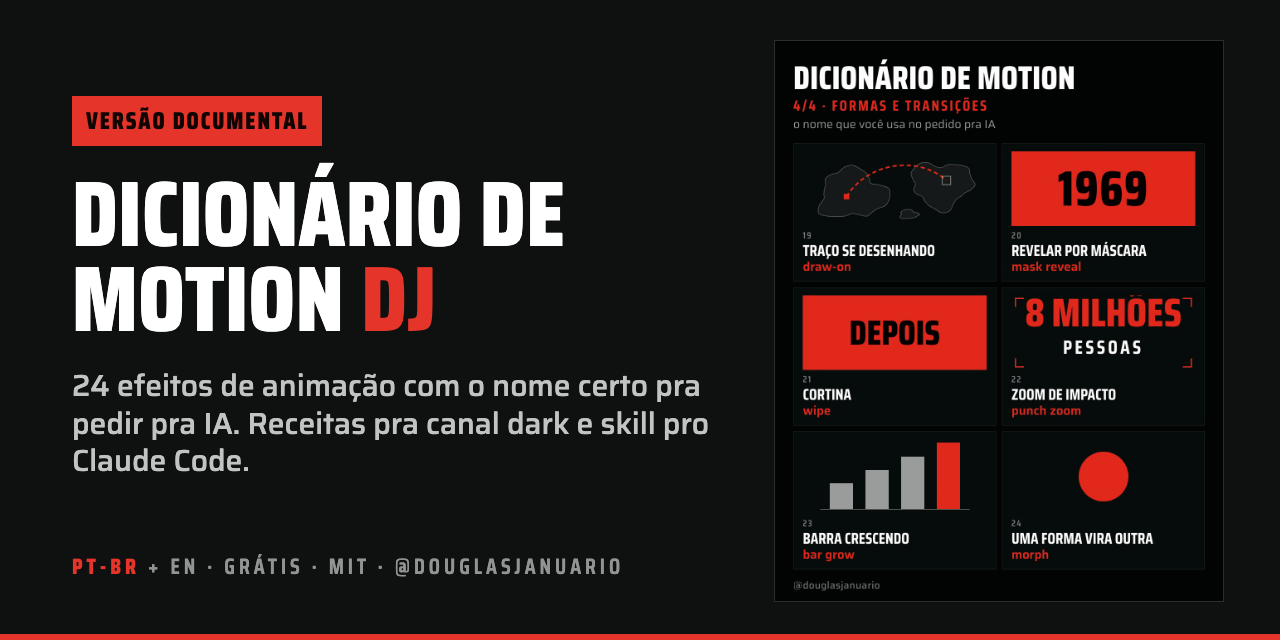
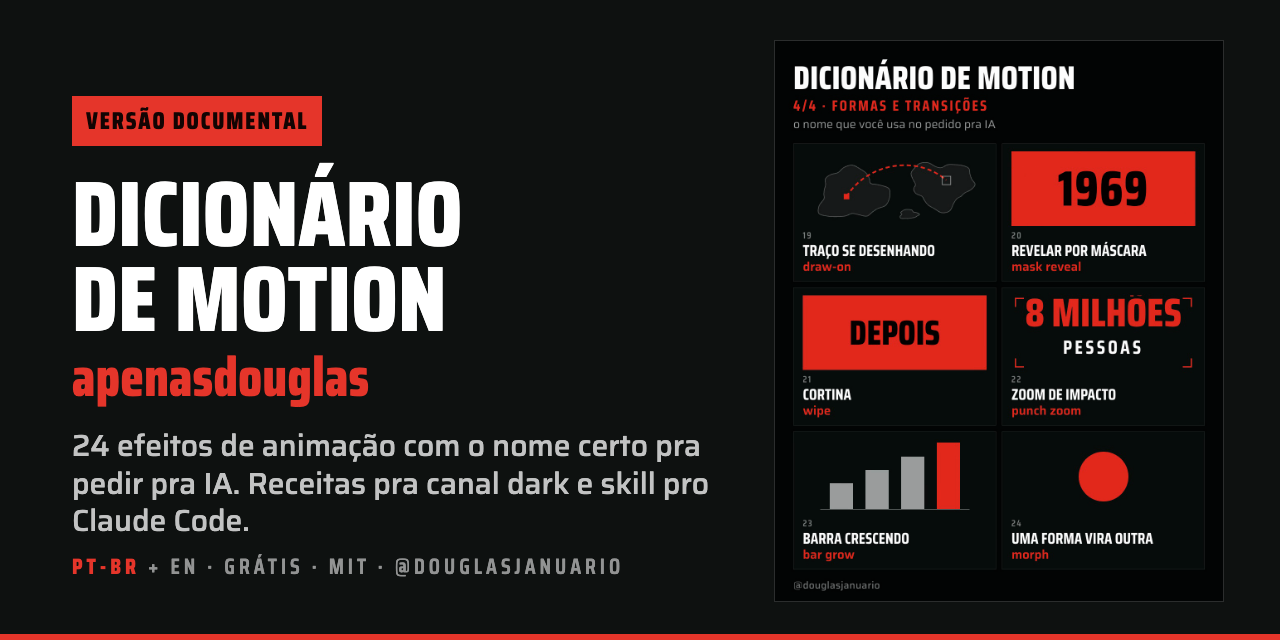
chore: nome do dicionário passa a ser apenasdouglas

Changed region(s): [[0.0312, 0.5625, 0.5625, 0.8438], [0.0625, 0.4062, 0.3438, 0.5312], [0.375, 0.2812, 0.4375, 0.4062]]

diff --git a/versoes/documental/dicionario-de-motion-documental/SKILL.md b/versoes/documental/dicionario-de-motion-documental/SKILL.md
@@ -3,7 +3,7 @@ name: dicionario-de-motion-documental
 description: Traduz pedidos de animação em português ("faz o número quicar", "entra um depois do outro", "dá um tranco no zoom") para o efeito de motion graphics certo, com o termo técnico, a duração e a aceleração. Use sempre que o usuário pedir animação, motion, transição ou efeito em vídeo, HTML, CSS, GSAP, Remotion, HyperFrames ou After Effects, principalmente quando o pedido for vago ("faz uma animação bonita") ou o vídeo for de canal dark (faceless) de curiosidades, história ou documentário. Also triggers on English requests for motion graphics, easing and animation effects in documentary or faceless YouTube videos.
 ---
 
-# Dicionário de Motion DJ · Versão Documental
+# Dicionário de Motion apenasdouglas · Versão Documental
 
 Quem pede animação em português raramente usa o nome técnico do efeito. Esta skill faz a ponte: identifica o efeito pelo jeito que a pessoa fala, aplica o termo certo e usa parâmetros que funcionam de primeira.
 

diff --git a/README.md b/README.md
@@ -1,4 +1,4 @@
-# Dicionário de Motion DJ · efeitos de animação pra pedir pra IA
+# Dicionário de Motion apenasdouglas · efeitos de animação pra pedir pra IA
 
 **[English](README.en.md)** · **Versão atual: Documental**
 

diff --git a/versoes/documental/README.md b/versoes/documental/README.md
@@ -1,4 +1,4 @@
-# Dicionário de Motion DJ · Versão Documental
+# Dicionário de Motion apenasdouglas · Versão Documental
 
 Versão pra canal dark (faceless) de curiosidades, história, mistério, ciência e documentário.
 

diff --git a/README.en.md b/README.en.md
@@ -1,4 +1,4 @@
-# DJ Motion Dictionary · animation effects to ask AI for
+# apenasdouglas Motion Dictionary · animation effects to ask AI for
 
 **[Português](README.md)** · **Current version: Documentary (Documental)**
 
